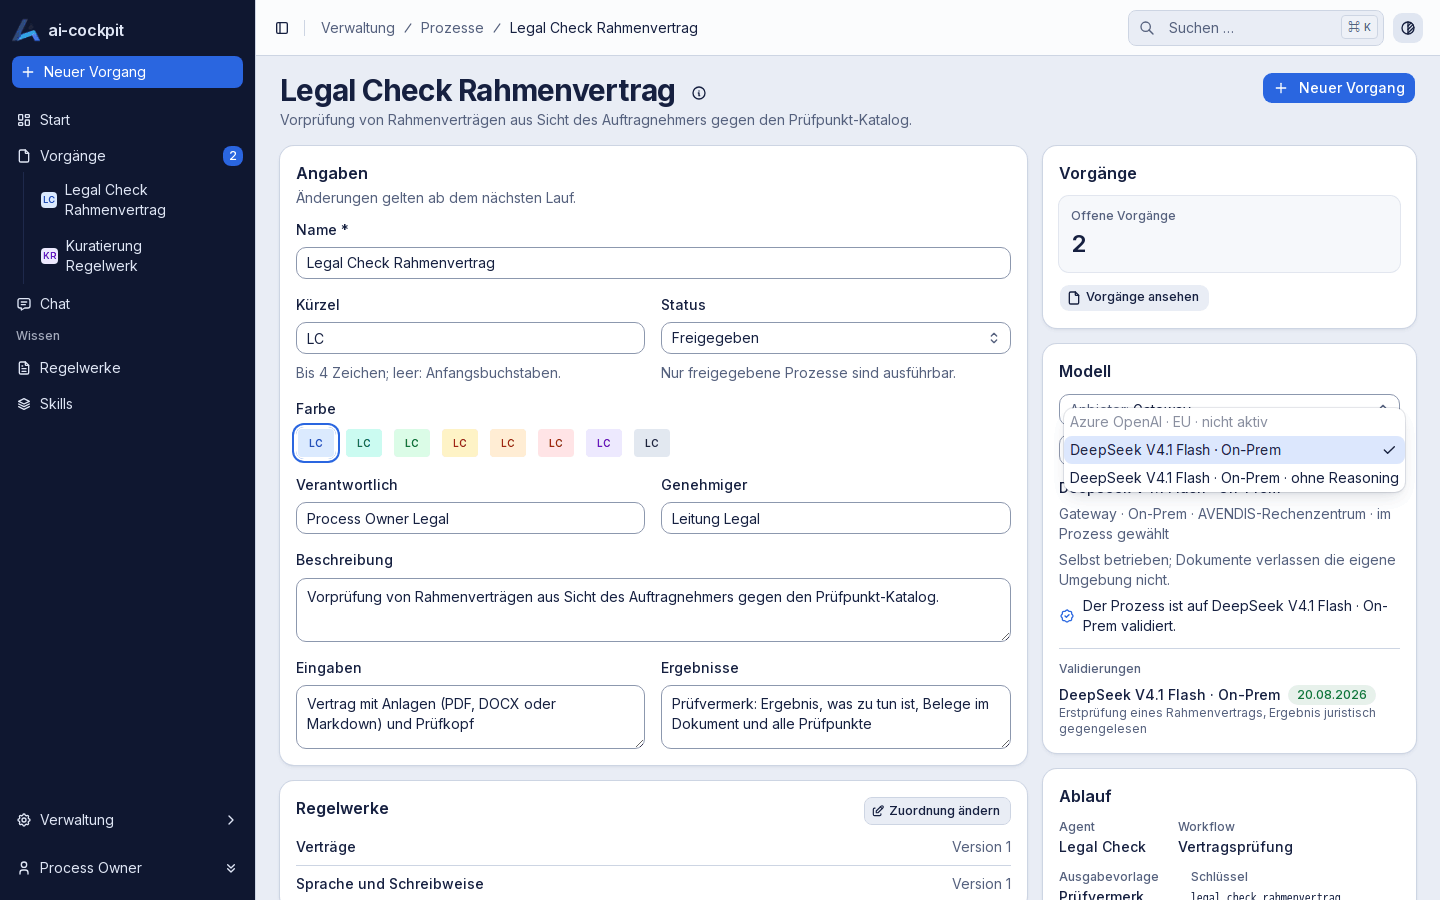
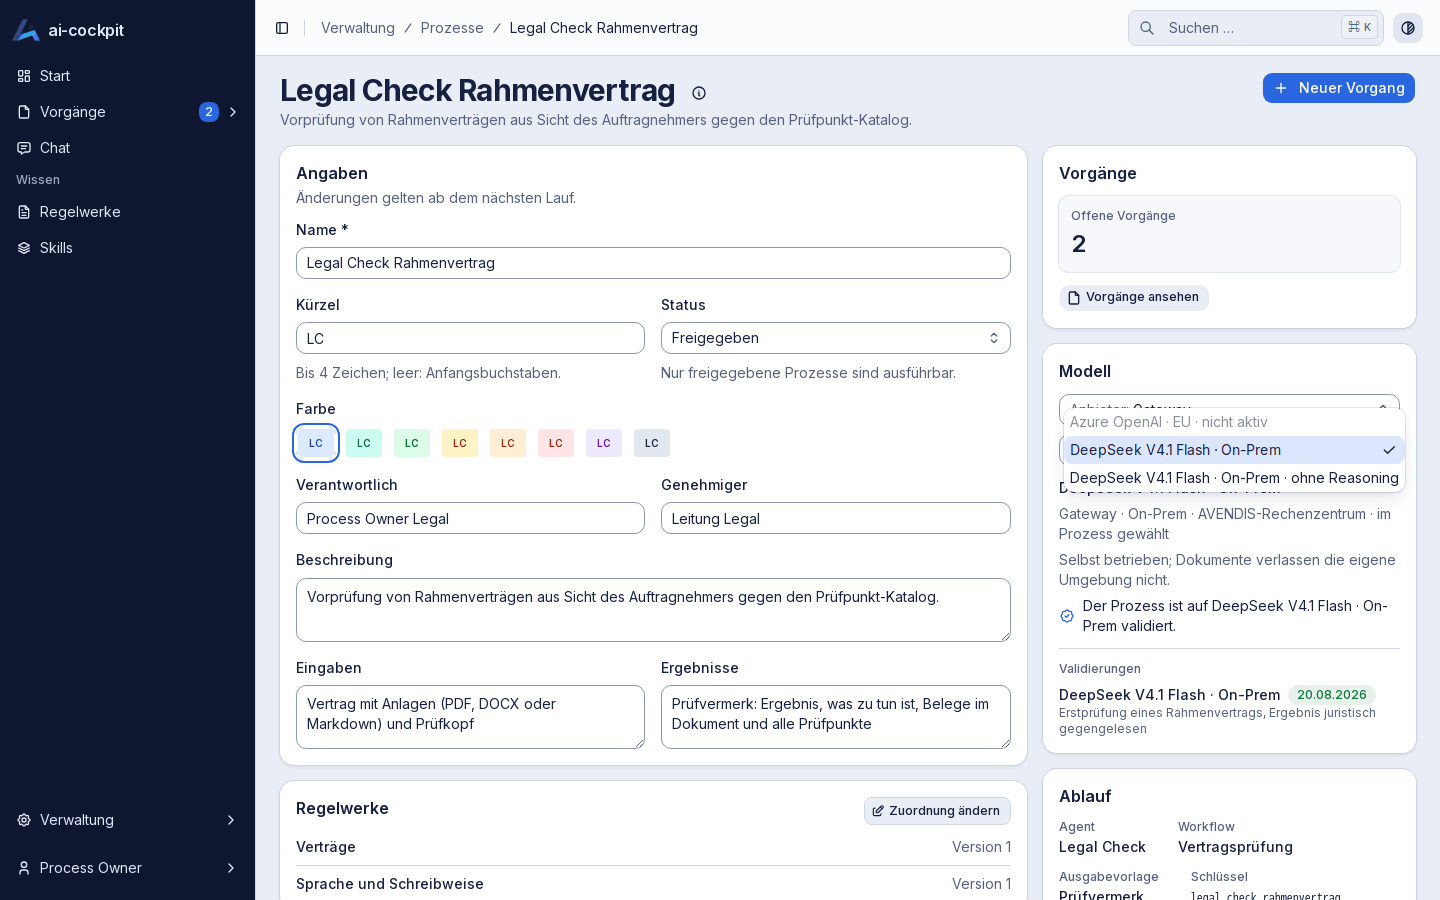
Screenshots: foldable cases entry, no new-case button in the sidebar

Changed region(s): [[0.0, 0.0622, 0.1875, 0.3111], [0.0, 0.4044, 0.0938, 0.4667], [0.1562, 0.1556, 0.1875, 0.1867]]

diff --git a/index.html b/index.html
@@ -152,7 +152,7 @@
               <li>Each process has its own short sign and colour</li>
               <li>A move that needs a reason asks for it before anything changes</li>
               <li>What waits for you is on the start page, and counted in the navigation</li>
-              <li>A new case is one click away from every page</li>
+              <li>A new case starts from the start page, the cases or its process</li>
               <li>Skills and a chat with the rulesets sit next to the work</li>
             </ul>
           </div>
